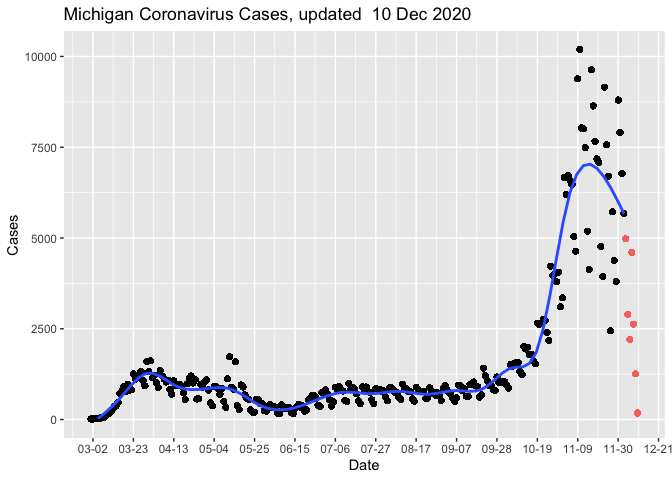
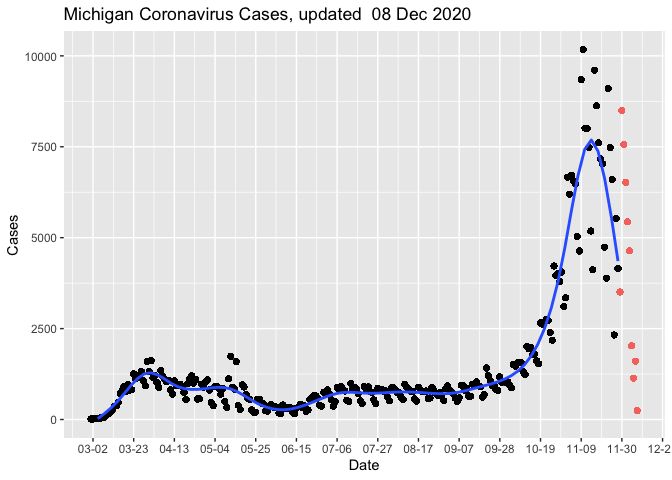
Revert "12-10-2020 update"
This reverts commit 911d09c32345394d730ac51a753328e292be4fb1.

diff --git a/MiCorona.md b/MiCorona.md
@@ -1,7 +1,7 @@
 Michigan COVID Data
 ================
 Adam D. DenHaan
-Dec 10, 2020
+Dec 08, 2020
 
 ``` python
 from urllib.request import urlopen
@@ -34,7 +34,7 @@ mi_data = readxl::read_excel("data/covid.xlsx")
 glimpse(mi_data)
 ```
 
-    ## Rows: 50,167
+    ## Rows: 49,815
     ## Columns: 8
     ## $ COUNTY            <chr> "Alcona", "Alcona", "Alcona", "Alcona", "Alcona", "…
     ## $ Date              <dttm> 2020-03-01, 2020-03-02, 2020-03-03, 2020-03-04, 20…
@@ -43,7 +43,7 @@ glimpse(mi_data)
     ## $ Deaths            <dbl> 0, 0, 0, 0, 0, 0, 0, 0, 0, 0, 0, 0, 0, 0, 0, 0, 0, …
     ## $ Cases.Cumulative  <dbl> 0, 0, 0, 0, 0, 0, 0, 0, 0, 0, 0, 0, 0, 0, 0, 0, 0, …
     ## $ Deaths.Cumulative <dbl> 0, 0, 0, 0, 0, 0, 0, 0, 0, 0, 0, 0, 0, 0, 0, 0, 0, …
-    ## $ Updated           <dttm> 2020-12-10 14:54:28, 2020-12-10 14:54:28, 2020-12-…
+    ## $ Updated           <dttm> 2020-12-08 14:17:10, 2020-12-08 14:17:10, 2020-12-…
 
 Wrangle Data:
 
@@ -61,7 +61,7 @@ mi_cases_by_day = mi_data %>%
 # linkdate <- as.Date(strsplit(link, "_")[[1]][16])
 # linkandnowdiff <- day(now()) - day(linkdate)
 
-day_split = 7
+day_split = 10
 
 mi_cases_by_day_exclusive <- mi_cases_by_day %>%
   filter(                                   #most recent data is often inaccurate and revised
@@ -96,5 +96,5 @@ mi_cases_by_day_exclusive %>%
 
 ![](MiCorona_files/figure-gfm/viz-1.png)<!-- -->
 
-Note that the last 7 days of data have been colored red on the graph, as
-they frequently change as more information becomes available.
+Note that the last 10 days of data have been colored red on the graph,
+as they frequently change as more information becomes available.
